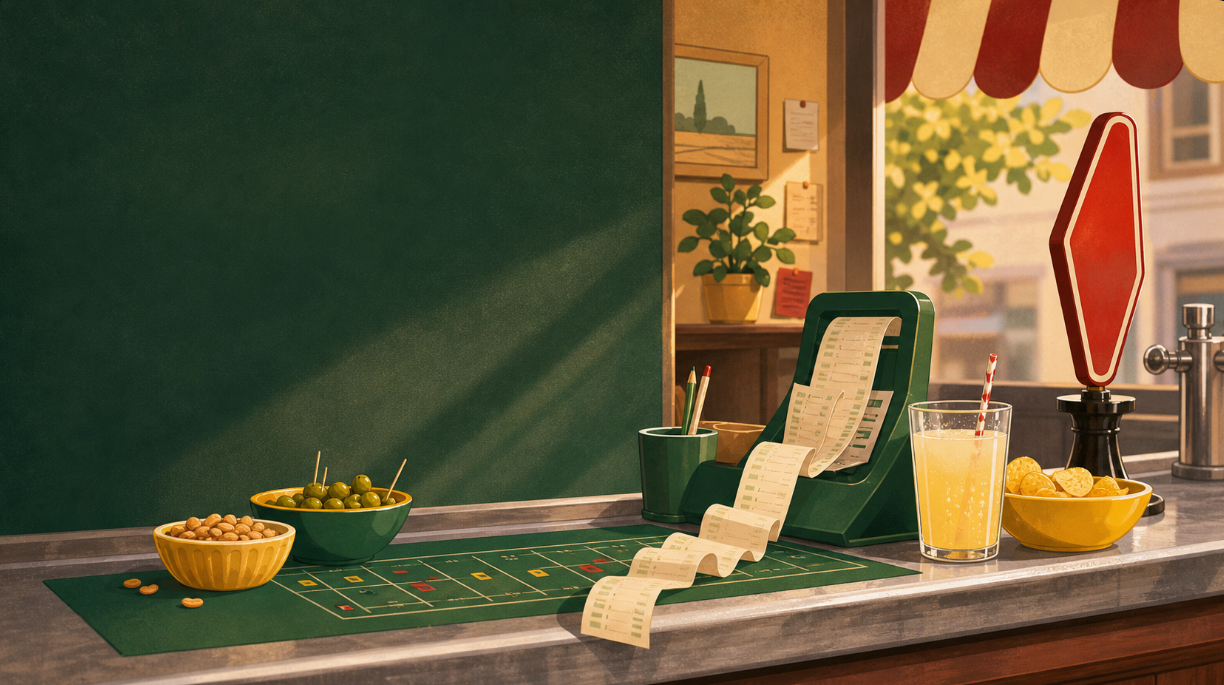
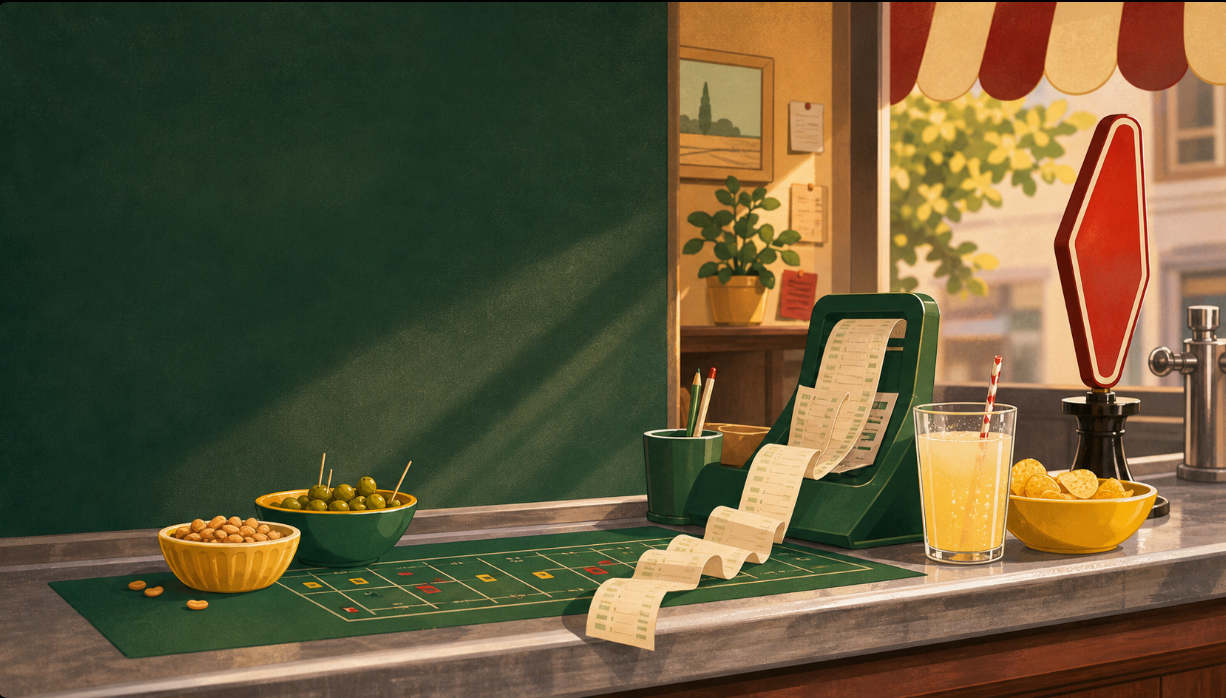
Use reference scene as global app background

diff --git a/src/styles/global.css b/src/styles/global.css
@@ -44,13 +44,7 @@ body {
   min-height: 100vh;
   margin: 0;
   overflow-x: hidden;
-  background:
-    linear-gradient(90deg, rgba(255, 255, 255, 0.035) 1px, transparent 1px),
-    linear-gradient(0deg, rgba(255, 255, 255, 0.025) 1px, transparent 1px),
-    radial-gradient(circle at 18% 8%, rgba(244, 197, 66, 0.24), transparent 18rem),
-    radial-gradient(circle at 85% 2%, rgba(184, 50, 43, 0.22), transparent 16rem),
-    linear-gradient(135deg, #0c2f25 0%, #14543b 48%, #6d2e20 100%);
-  background-size: 34px 34px, 34px 34px, auto, auto, auto;
+  background: #0c2f25;
 }
 
 body::before {
@@ -64,6 +58,45 @@ body::before {
     radial-gradient(circle at 70% 58%, rgba(255, 244, 210, 0.06), transparent 0.18rem);
   background-size: 18px 18px, 24px 24px;
   opacity: 0.8;
+}
+
+.app-shell {
+  position: relative;
+  min-height: 100vh;
+  isolation: isolate;
+  overflow-x: hidden;
+}
+
+.app-shell::before {
+  position: fixed;
+  inset: -24px;
+  z-index: 0;
+  pointer-events: none;
+  content: "";
+  background-image: var(--app-background-image);
+  background-position: center;
+  background-repeat: no-repeat;
+  background-size: cover;
+  filter: blur(14px) saturate(1.08);
+  transform: scale(1.04);
+}
+
+.app-shell::after {
+  position: fixed;
+  inset: 0;
+  z-index: 0;
+  pointer-events: none;
+  content: "";
+  background:
+    linear-gradient(90deg, rgba(10, 38, 30, 0.82), rgba(10, 38, 30, 0.58) 48%, rgba(74, 42, 25, 0.68)),
+    radial-gradient(circle at 16% 12%, rgba(244, 197, 66, 0.2), transparent 16rem),
+    radial-gradient(circle at 82% 8%, rgba(184, 50, 43, 0.18), transparent 18rem),
+    linear-gradient(rgba(18, 60, 45, 0.28), rgba(18, 60, 45, 0.42));
+}
+
+.app-shell__content {
+  position: relative;
+  z-index: 1;
 }
 
 button,
@@ -1150,16 +1183,19 @@ textarea {
 .loading-screen__wall {
   position: relative;
   display: grid;
-  align-content: end;
+  align-content: start;
   min-height: 29rem;
-  padding: 1.25rem;
+  padding: 3.6rem 1.25rem 1.25rem;
   overflow: hidden;
   border: 2px solid rgba(255, 244, 210, 0.28);
   border-radius: 24px;
   background:
-    radial-gradient(circle at 16% 22%, rgba(244, 197, 66, 0.16), transparent 7rem),
-    radial-gradient(circle at 82% 18%, rgba(255, 244, 210, 0.1), transparent 8rem),
-    linear-gradient(180deg, rgba(20, 84, 59, 0.98), rgba(17, 65, 47, 0.98));
+    linear-gradient(90deg, rgba(16, 54, 40, 0.08), rgba(16, 54, 40, 0.7) 58%, rgba(16, 54, 40, 0.16)),
+    radial-gradient(circle at 16% 22%, rgba(244, 197, 66, 0.1), transparent 7rem),
+    var(--app-background-image);
+  background-position: 28% center;
+  background-repeat: no-repeat;
+  background-size: cover;
   box-shadow: var(--shadow);
 }
 
@@ -1196,9 +1232,7 @@ textarea {
   align-self: start;
   justify-self: start;
   min-height: 7rem;
-  padding: 0.85rem 1rem 0.75rem;
-  border-radius: 20px;
-  background: rgba(15, 51, 38, 0.24);
+  padding: 0.35rem 0.3rem 0.65rem;
 }
 
 .loading-screen__handwriting {

diff --git a/src/App.tsx b/src/App.tsx
@@ -1,5 +1,17 @@
+import type { CSSProperties } from "react";
+import comptoirBackground from "./assets/art/comptoir-background.jpg";
 import { AppRouter } from "./routes/AppRouter";
 
+const appShellStyle = {
+  "--app-background-image": `url(${comptoirBackground})`,
+} as CSSProperties;
+
 export function App() {
-  return <AppRouter />;
+  return (
+    <div className="app-shell" style={appShellStyle}>
+      <div className="app-shell__content">
+        <AppRouter />
+      </div>
+    </div>
+  );
 }

diff --git a/src/pages/HomePage.tsx b/src/pages/HomePage.tsx
@@ -2,7 +2,7 @@ import { Link } from "react-router-dom";
 import { AperoOrnaments } from "../components/AperoOrnaments";
 import { MobileBottomBar } from "../components/MobileBottomBar";
 import { MobilePage } from "../components/MobilePage";
-import comptoirScene from "../assets/art/comptoir-reference.png";
+import comptoirScene from "../assets/art/comptoir-background.jpg";
 
 export function HomePage() {
   return (